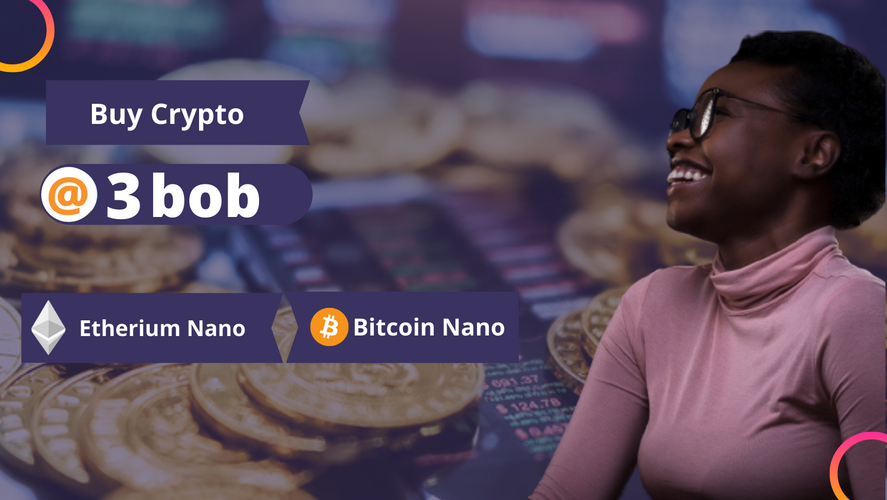
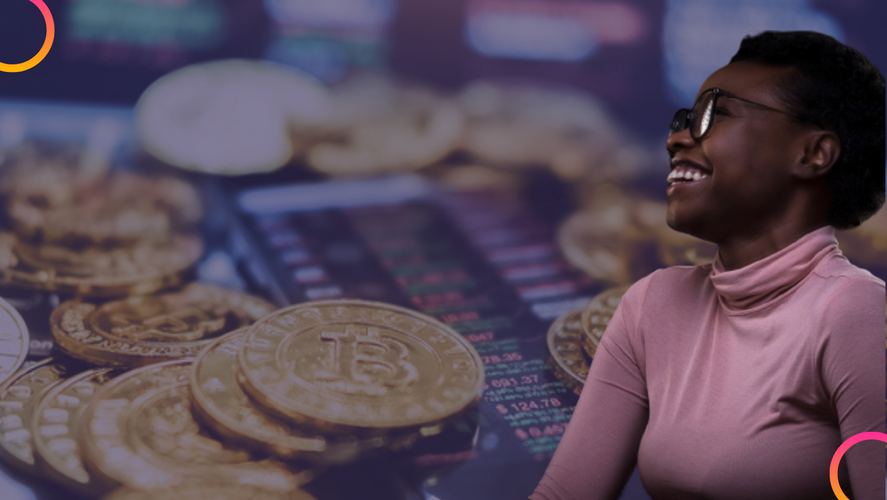
[chore] adding the ui templates

Changed region(s): [[0.0, 0.57, 0.6088, 0.75], [0.0304, 0.15, 0.3653, 0.3], [0.0304, 0.33, 0.3653, 0.45]]

diff --git a/client/pages/index.vue b/client/pages/index.vue
@@ -10,8 +10,14 @@
     >
       <div class="overlay"></div>
       <div class="home-content">
-        <div class="row contents">
-          <div class="home-content-left"></div>
+        <div class="row">
+          <div class="home-content-left col-12 col-xl-12">
+            <h1 class="banner__header">Got 3Bob? Get Bitcoin</h1>
+            <p class="banner__left-content banner__size">
+              Buy, Sell, Trade, Invest. Your favorite crypto assets for 3bob or
+              less. No Internet. No Problem. Trade Now. Dial &times;371#
+            </p>
+          </div>
         </div>
       </div>
 
@@ -31,25 +37,40 @@
       data-natural-width="3000"
       data-natural-height="2000"
     >
-      <div>
-        <h1 style="text-align: right; color: #fff; margin-right: 50px">3BOB</h1>
-        <p style="text-align: right; color: #fff; margin-right: 50px">
-          3BOB is an innovative USSD, SMS and PWA trading platform <br />
-          built on the Solana Blockchain by Kenyans and for Kenyans. <br />3BOB
-          aims to bridge the gap between the crypto world and Mpesa<br />
-          thus enabling users to easily deposit<br />
-          and withdraw crypto to Kshs.<br />
-          Building it on the Solana blockchain allows us to minimize the
-          transaction <br />
-          fees to as low as Kshs 3 ($0.03).
-          <br />
-          <br />
-          <nuxt-link
-            class="btn btn-primary text-white"
-            :to="{ name: 'auth-signin' }"
-            >{{ $auth.loggedIn ? 'Dashboard' : `Connect Phone` }}</nuxt-link
+      <div class="row">
+        <div class="col-lg-6 col-sm-12 col-xl-6 col-xxl-12"></div>
+
+        <div class="col-lg-6 col-sm-12 col-xl-6 col-xxl-12">
+          <h1 style="text-align: right; color: #fff; margin-right: 50px">
+            3BOB
+          </h1>
+          <p
+            style="
+              text-align: right;
+              color: #fff;
+              margin-right: 50px;
+              font-size: 21px !important;
+            "
+            class="banner__size"
           >
-        </p>
+            3BOB is an innovative USSD, SMS and PWA trading platform <br />
+            built on the Solana Blockchain by Kenyans and for Kenyans.
+            <br />3BOB aims to bridge the gap between the crypto world and
+            Mpesa<br />
+            thus enabling users to easily deposit<br />
+            and withdraw crypto to Kshs.<br />
+            Building it on the Solana blockchain allows us to minimize the
+            transaction <br />
+            fees to as low as Kshs 3 ($0.03).
+            <br />
+            <br />
+            <nuxt-link
+              class="btn btn-primary text-white"
+              :to="{ name: 'auth-signin' }"
+              >{{ $auth.loggedIn ? 'Dashboard' : `Connect Phone` }}</nuxt-link
+            >
+          </p>
+        </div>
       </div>
     </section>
   </div>
@@ -61,4 +82,44 @@ export default {
 }
 </script>
 
-<style></style>
+<style>
+.banner__header {
+  padding: 10px;
+  margin-top: -20px !important;
+  margin-bottom: -2px !important;
+  font-size: 55px !important;
+}
+
+.banner__size {
+  font-size: 26px !important;
+  color: #fff;
+  line-height: 38px !important;
+  font-weight: bold;
+  letter-spacing: 1.7px;
+}
+
+.banner__left-content {
+  width: 600px;
+  padding: 10px;
+}
+
+@media only screen and (max-width: 600px) {
+  .banner__header {
+    font-size: 30px !important;
+    width: 100% !important;
+  }
+
+  .banner__left-content {
+    width: 300px important;
+    display: flex;
+    flex-wrap: wrap;
+    padding: 10px;
+    text-align: left !important;
+  }
+
+  .banner__size {
+    font-size: 12px !important;
+    color: #fff;
+  }
+}
+</style>

diff --git a/client/assets/client/css/main.css b/client/assets/client/css/main.css
@@ -1906,9 +1906,12 @@ html[data-useragent*='MSIE 10.0'] .home-scrolldown,
 #about {
   min-height: 786px;
   background-image: url('../images/about1.png');
+  background-repeat: no-repeat;
+  /* background-position: center; */
+  background-size: cover;
   padding-top: 18rem;
   overflow: hidden;
-  margin-bottom: 20vh;
+  margin-bottom: 1vh;
 }
 
 .about-intro {
